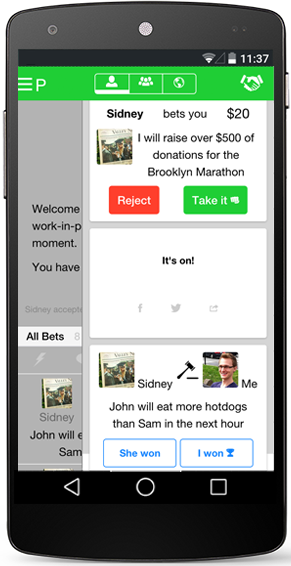
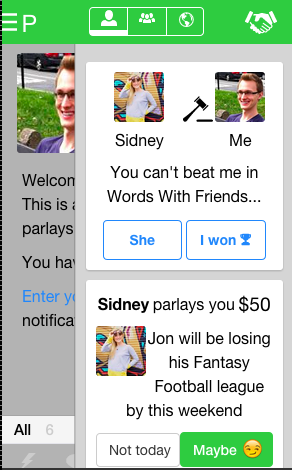
new gifs, landing screenshots (required new responsive rules)

diff --git a/main.css b/main.css
@@ -179,7 +179,7 @@ nav + footer {
 
 a.logo {
     position: absolute;
-    left: 15%;
+    left: 10%;
 }
 
 nav > a.logo,
@@ -209,7 +209,7 @@ svg.logo * {
 
 a.signin {
     position: absolute;
-    right: 15%;
+    right: 10%;
     line-height: 44px; /* (logo font size - signin size) * 2 + signin size */
     font-size: 16px;
 }
@@ -284,6 +284,7 @@ h2 {
 
 .iphone6 {
     margin-right: 3%;
+    margin-bottom: 30px;
 }
 
 .screen > img {
@@ -493,13 +494,26 @@ p.fee {
 
 /* responsive adjustment */
 
-@media only screen and (max-width : 1280px) {
+@media only screen and (max-width : 1400px) {
+
     a.logo {
-	left: 10%;
+	left: 5%;
     }
 
     a.signin {
-	right: 10%;
+	right: 5%;
+    }
+
+}
+
+@media only screen and (max-width : 1280px) {
+
+    a.logo {
+	left: 0;
+    }
+
+    a.signin {
+	right: 0;
     }
 
     #drawer-panel {
@@ -511,24 +525,18 @@ p.fee {
 	width: 60%;
 	margin-left: 20%;
     }
+
 }
 
-@media only screen and (max-width : 1100px) {
-    a.logo {
-	left: 0;
-    }
 
-    a.signin {
-	right: 0;
-    }
-}
-
-@media only screen and (max-width : 900px) {
+@media only screen and (max-width : 1000px) {
     header {
         background-color: white;
         height: 120px;  /* todo why is this needed?  */
     }
+}
 
+@media only screen and (max-width : 900px) {
     .bios {
         width: 80%;
         margin-left: 10%;
@@ -613,9 +621,16 @@ p.fee {
 }
 
 @media only screen and (max-width : 400px) { 
+
     .card {
         padding: 5px 10%;
     }
+
+    .iphone6 {
+        transform: scale(.9) translateX(-15px);
+        margin-bottom: 0;
+    }
+
 }
 
 @media only screen and (max-width : 370px) { 
@@ -627,4 +642,40 @@ p.fee {
 	width: 90%;
 	margin-left: 5%;
     }
+}
+
+@media only screen and (max-width : 360px) {
+    
+    .iphone6 {
+        transform: scale(.87) translateX(-10px);
+    }
+
+    .nexus5 {
+        transform: scale(.93);
+    }
+
+}
+
+@media only screen and (max-width : 360px) {
+    
+    .iphone6 {
+        transform: scale(.85) translateX(-30px);
+    }
+
+    .nexus5 {
+        transform: scale(.93);
+    }
+
+}
+
+@media only screen and (max-width : 340px) {
+    
+    .iphone6 {
+        transform: scale(.78) translateX(-45px);
+    }
+
+    .nexus5 {
+        transform: scale(.93) translateX(-8px);
+    }
+
 }

diff --git a/index.html b/index.html
@@ -79,7 +79,7 @@ title:  "Parlay with Friends"
       <div class="sensor"></div>
       <div class="speaker"></div>
       <div class="screen">
-        <!-- <img src="iphone.png"> -->
+        <img src="iphone.png">
       </div>
       <div class="home"></div>
       <div class="bottom-bar"></div>
@@ -91,7 +91,7 @@ title:  "Parlay with Friends"
       <div class="volume"></div>
       <div class="camera"></div>
       <div class="screen">
-        <!-- <img src="nexus.png"> -->
+        <img src="nexus.png">
       </div>
     </div>
   </section>
